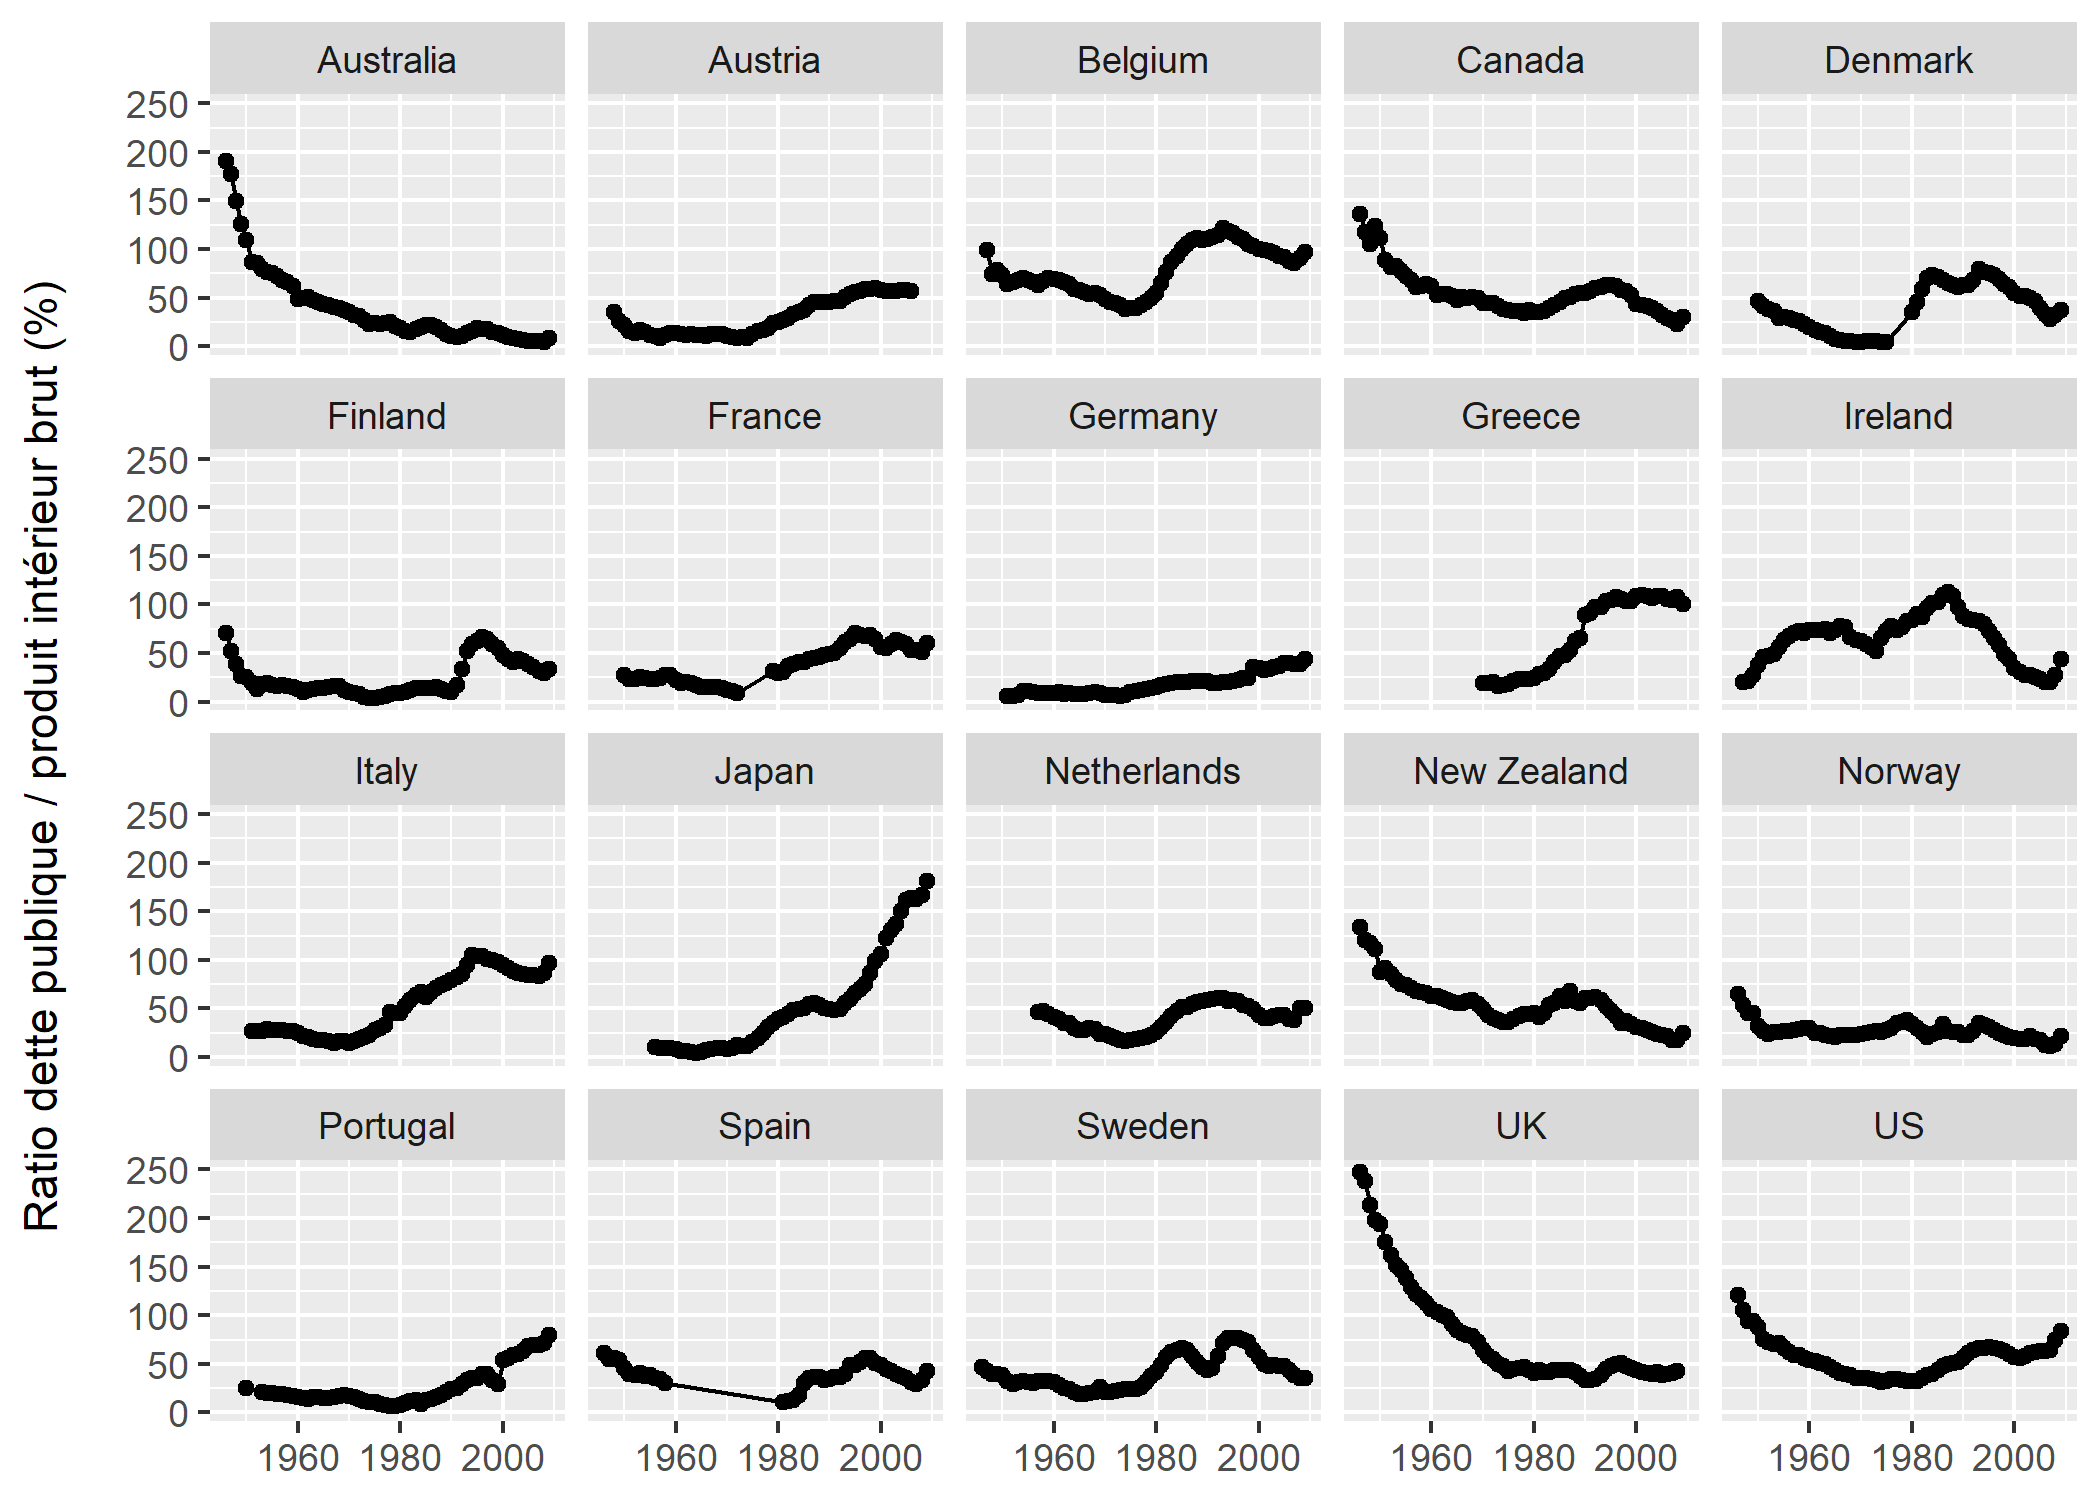
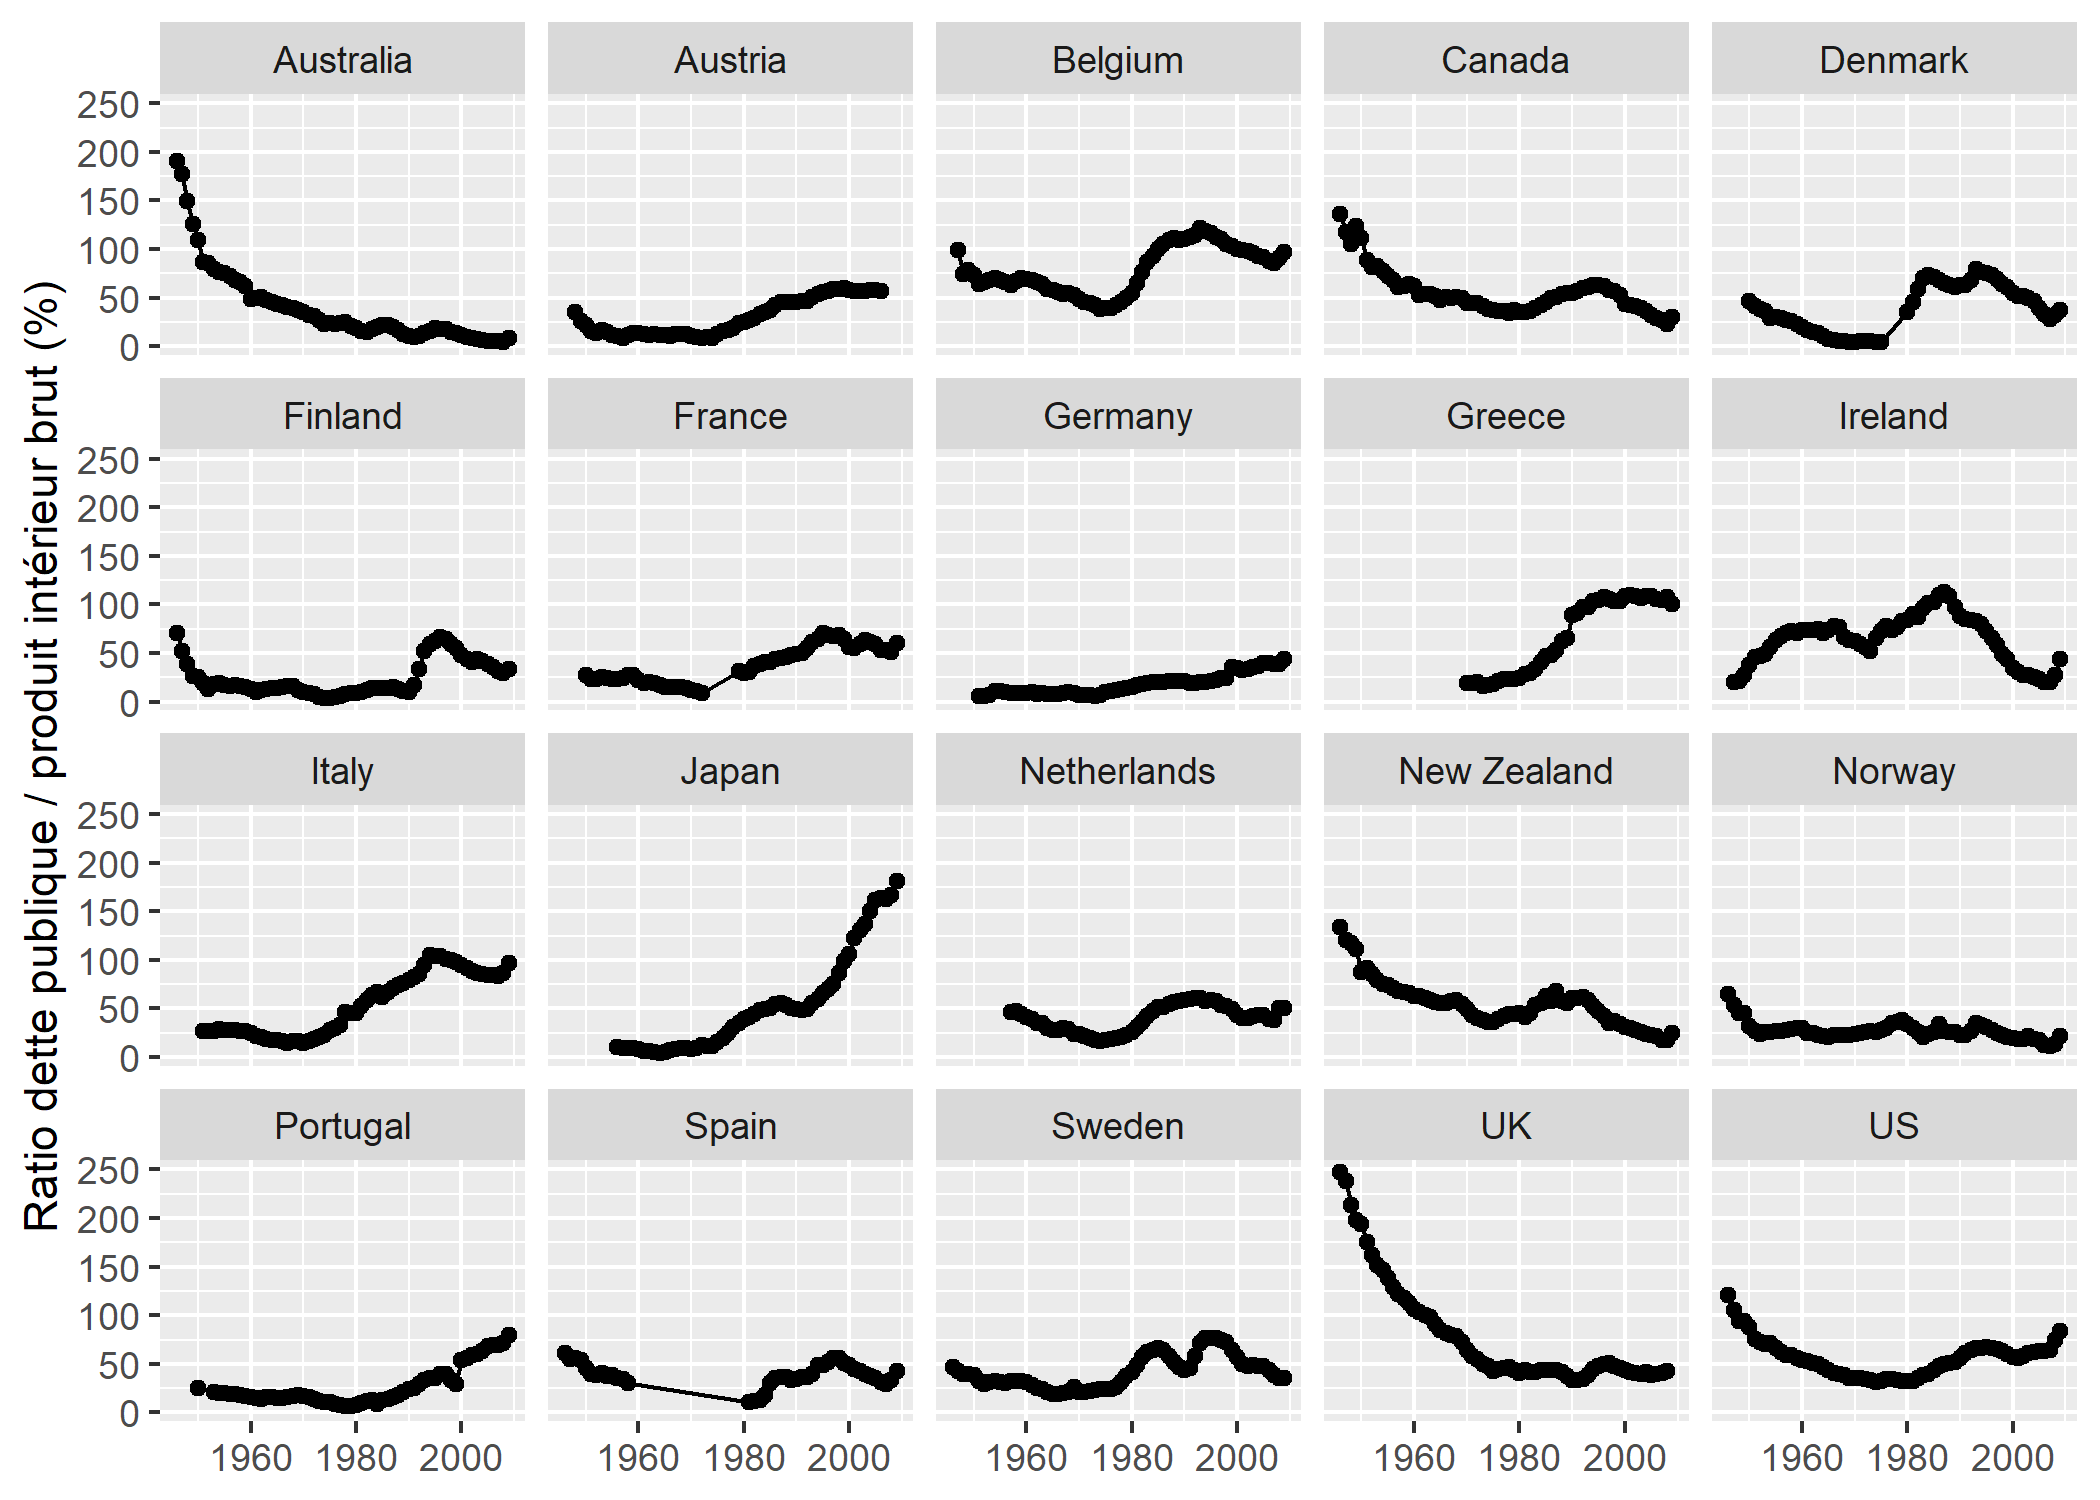
typo

diff --git a/intro-ggplot2.html b/intro-ggplot2.html
@@ -640,7 +640,7 @@ i Specify the column types or set `show_col_types = FALSE` to quiet this message
 <div class="sourceCode" id="cb18"><pre class="sourceCode r"><code class="sourceCode r"><span id="cb18-1"><a href="#cb18-1" aria-hidden="true" tabindex="-1"></a><span class="fu">qplot</span>(<span class="at">data =</span> debt, <span class="at">y =</span> ratio, <span class="at">x =</span> Year, <span class="at">geom =</span> <span class="fu">c</span>(<span class="st">&quot;line&quot;</span>, <span class="st">&quot;point&quot;</span>)) <span class="sc">+</span> </span>
 <span id="cb18-2"><a href="#cb18-2" aria-hidden="true" tabindex="-1"></a>  <span class="fu">facet_wrap</span>(<span class="sc">~</span> Country) <span class="sc">+</span></span>
 <span id="cb18-3"><a href="#cb18-3" aria-hidden="true" tabindex="-1"></a>  <span class="fu">labs</span>(<span class="at">x =</span> <span class="cn">NULL</span>,</span>
-<span id="cb18-4"><a href="#cb18-4" aria-hidden="true" tabindex="-1"></a>       <span class="at">y =</span> <span class="st">&quot;Ratio dette publique / produit intérieur brut (%)</span><span class="sc">\n</span><span class="st">&quot;</span>)</span></code></pre></div>
+<span id="cb18-4"><a href="#cb18-4" aria-hidden="true" tabindex="-1"></a>       <span class="at">y =</span> <span class="st">&quot;Ratio dette publique / produit intérieur brut (%)&quot;</span>)</span></code></pre></div>
 <img src="graphs/intro-ggplot2/unnamed-chunk-12-1.png" width="1050" />
 </figure>
 <p>Dans ce graphique, on a combiné deux <q>objets géométriques</q> (<code>geom</code>) pour afficher à la fois des points et des lignes. On a ensuite défini les titres des axes, en supprimant celui de l’axe <code>x</code>, et en rajoutant un peu d’espace entre le titre de l’axe <code>y</code> et l’axe lui-même grâce à la chaîne de caractères finale <code>\n</code>, qui rajoute une ligne vide entre ces deux éléments<a href="#fn4" class="footnote-ref" id="fnref4"><sup>4</sup></a>.</p>
